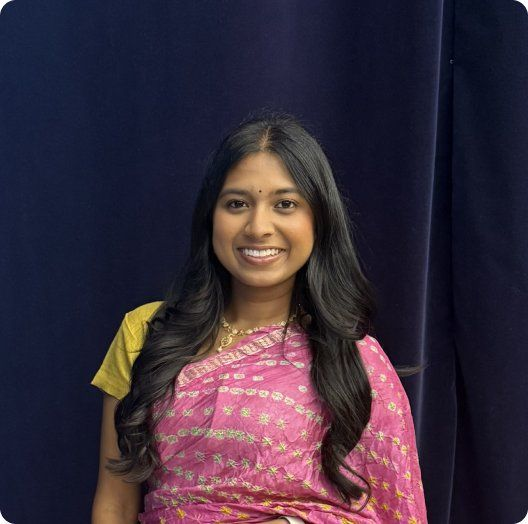
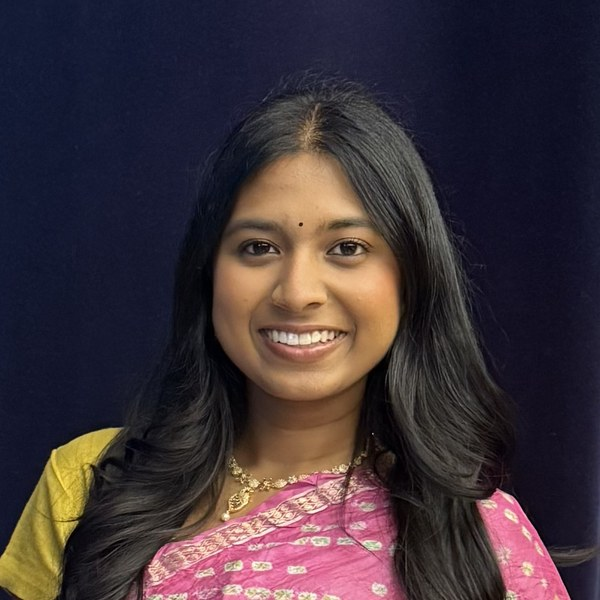
About: crop board photos to matching headshots

diff --git a/about.html b/about.html
@@ -85,7 +85,7 @@
         </div>
         <ul class="board__list">
           <li>
-            <img class="board__photo" src="images/board-sahana.jpg" alt="Sahana Gopalan" width="526" height="524">
+            <img class="board__photo" src="images/board-sahana.jpg" alt="Sahana Gopalan" width="600" height="600">
             <p class="board__name h2">Sahana Gopalan</p>
             <p class="board__role label">President</p>
             <p class="small">Vocal</p>
@@ -97,13 +97,13 @@
             <p class="small">Mridangam</p>
           </li>
           <li>
-            <img class="board__photo" src="images/board-kishore.jpg" alt="Kishore Lakshmanan" width="540" height="524">
+            <img class="board__photo" src="images/board-kishore.jpg" alt="Kishore Lakshmanan" width="600" height="600">
             <p class="board__name h2">Kishore Lakshmanan</p>
             <p class="board__role label">External Vice President</p>
             <p class="small">Mridangam</p>
           </li>
           <li>
-            <img class="board__photo" src="images/board-ananya.jpg" alt="Ananya Chakravarthi" width="528" height="524">
+            <img class="board__photo" src="images/board-ananya.jpg" alt="Ananya Chakravarthi" width="600" height="600">
             <p class="board__name h2">Ananya Chakravarthi</p>
             <p class="board__role label">Internal Vice President</p>
             <p class="small">Violin</p>
